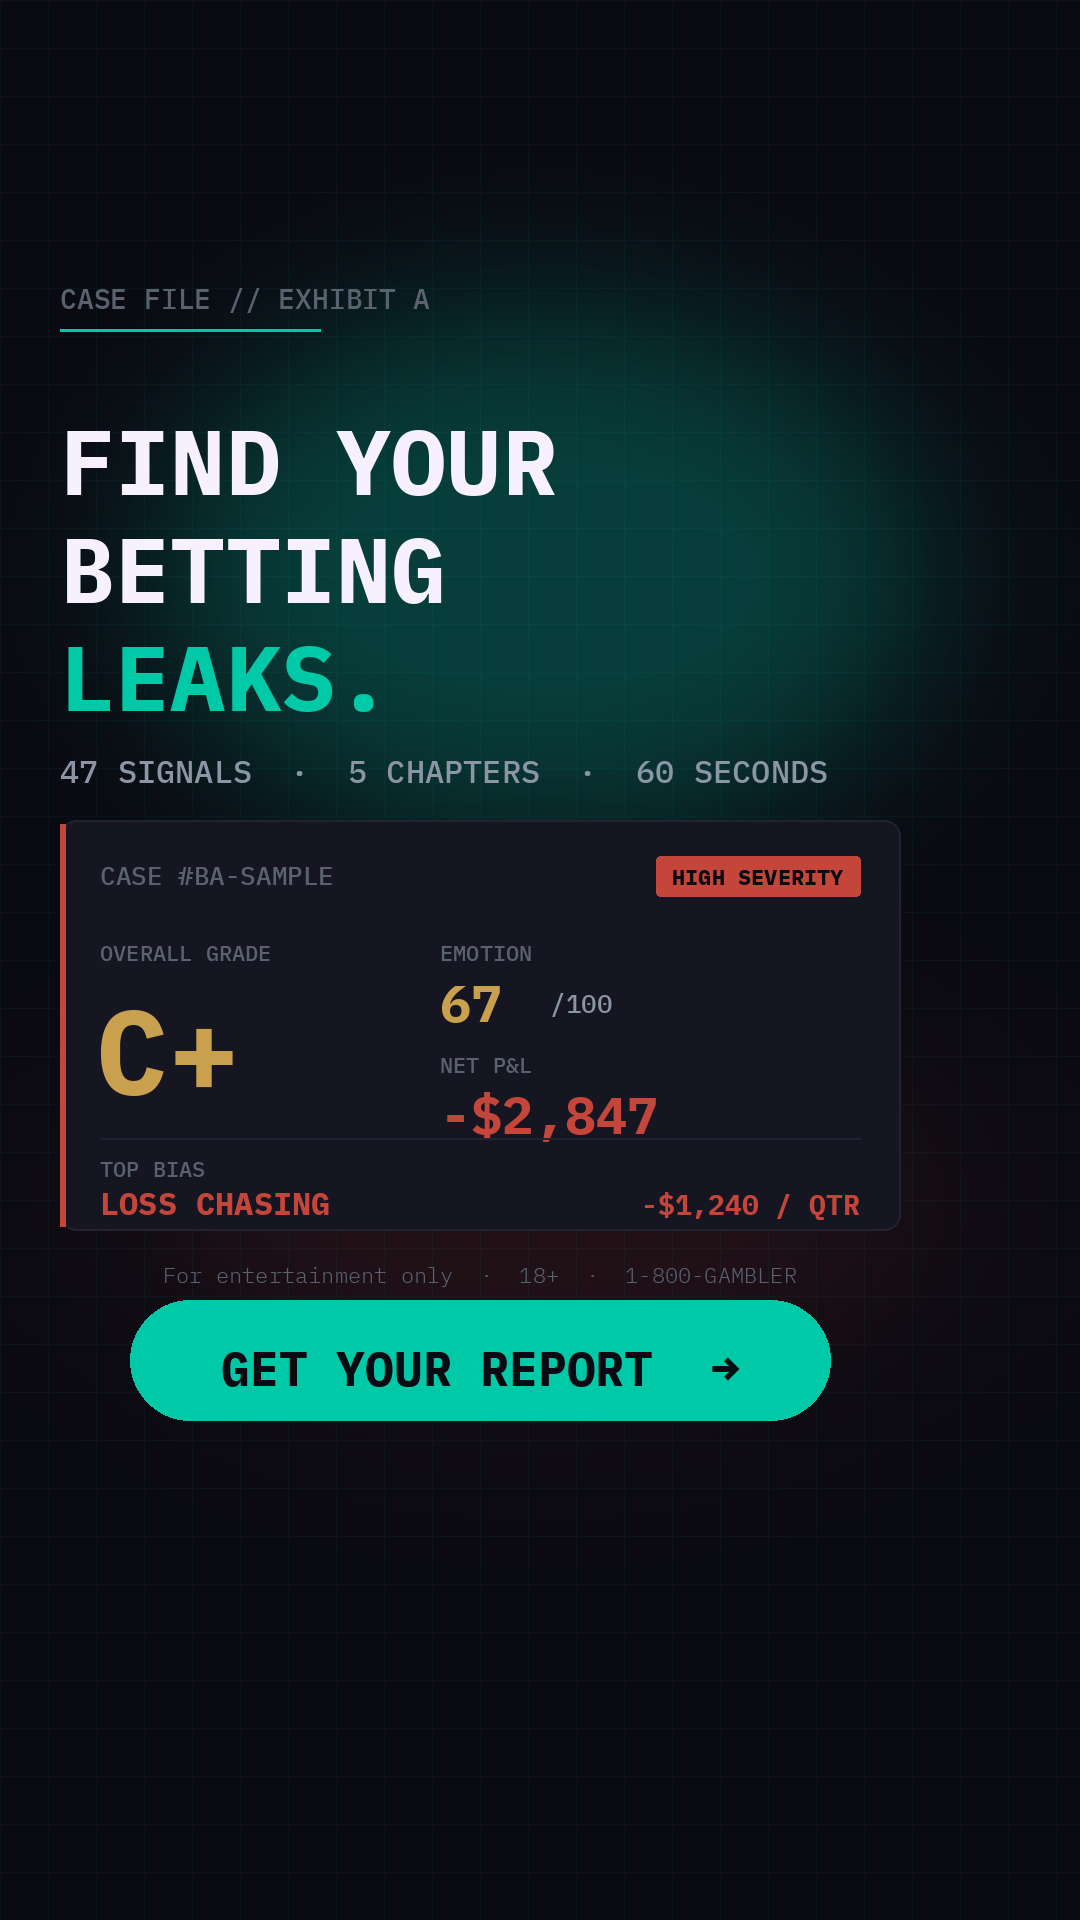
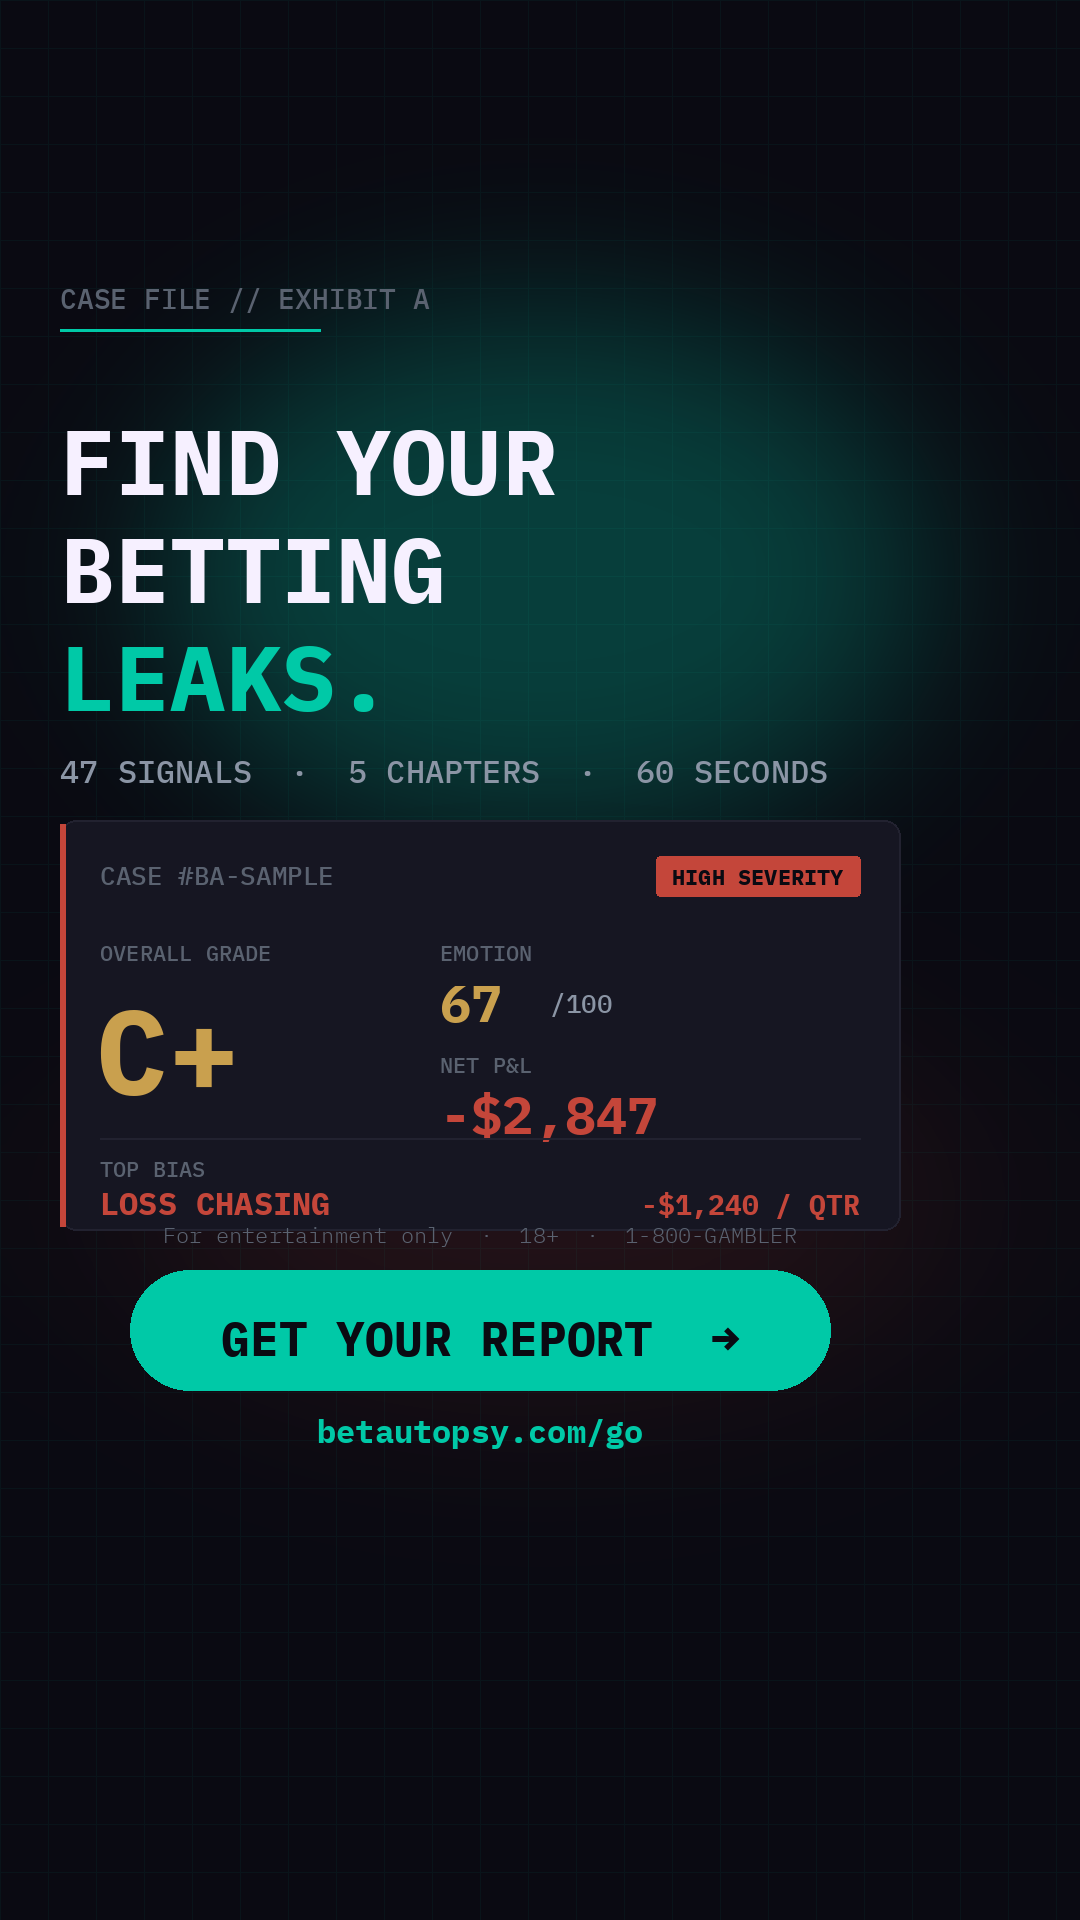
fix(brand): add betautopsy.com/go URL line under tiktok end card CTA
Put the URL back on the end card below the CTA button as a small teal
mono reference. Button stays primary, URL is secondary — the /go path
matters because it's the cold-traffic LP (not the homepage), so viewers
who can't tap the bio link can still type it in.

Budget on bottom safe zone: button ends at 1390, URL at 1410-1445,
safe zone edge at 1440. Disclaimer moved up to 1220 to make room.

Changed region(s): [[0.1222, 0.6562, 0.7944, 0.75]]

diff --git a/scripts/generate-tiktok-endcard.py b/scripts/generate-tiktok-endcard.py
@@ -230,8 +230,8 @@ def build():
     cost_w = tw(d, cost_text, bold(28))
     d.text((card_right - 40 - cost_w, tb_y + 28), cost_text, font=bold(28), fill=BLEED)
 
-    # ── Disclaimer (small, sits above the button) ──
-    disc_y = 1260
+    # ── Disclaimer (small, sits above the URL + button) ──
+    disc_y = 1220
     disc = "For entertainment only  ·  18+  ·  1-800-GAMBLER"
     disc_w = tw(d, disc, light(22))
     safe_cx = (SAFE_L + SAFE_R) // 2
@@ -241,11 +241,17 @@ def build():
     draw_cta_button(
         d,
         center_x=safe_cx,
-        y=1300,
+        y=1270,
         text="GET YOUR REPORT  →",
         width=700,
         height=120,
     )
+
+    # ── URL reference under the button (small, mono, teal) ──
+    url_y = 1410
+    url_text = "betautopsy.com/go"
+    url_w = tw(d, url_text, bold(32))
+    d.text((safe_cx - url_w // 2, url_y), url_text, font=bold(32), fill=SCALPEL)
 
     # ── Save ──
     final = img.convert("RGB")
